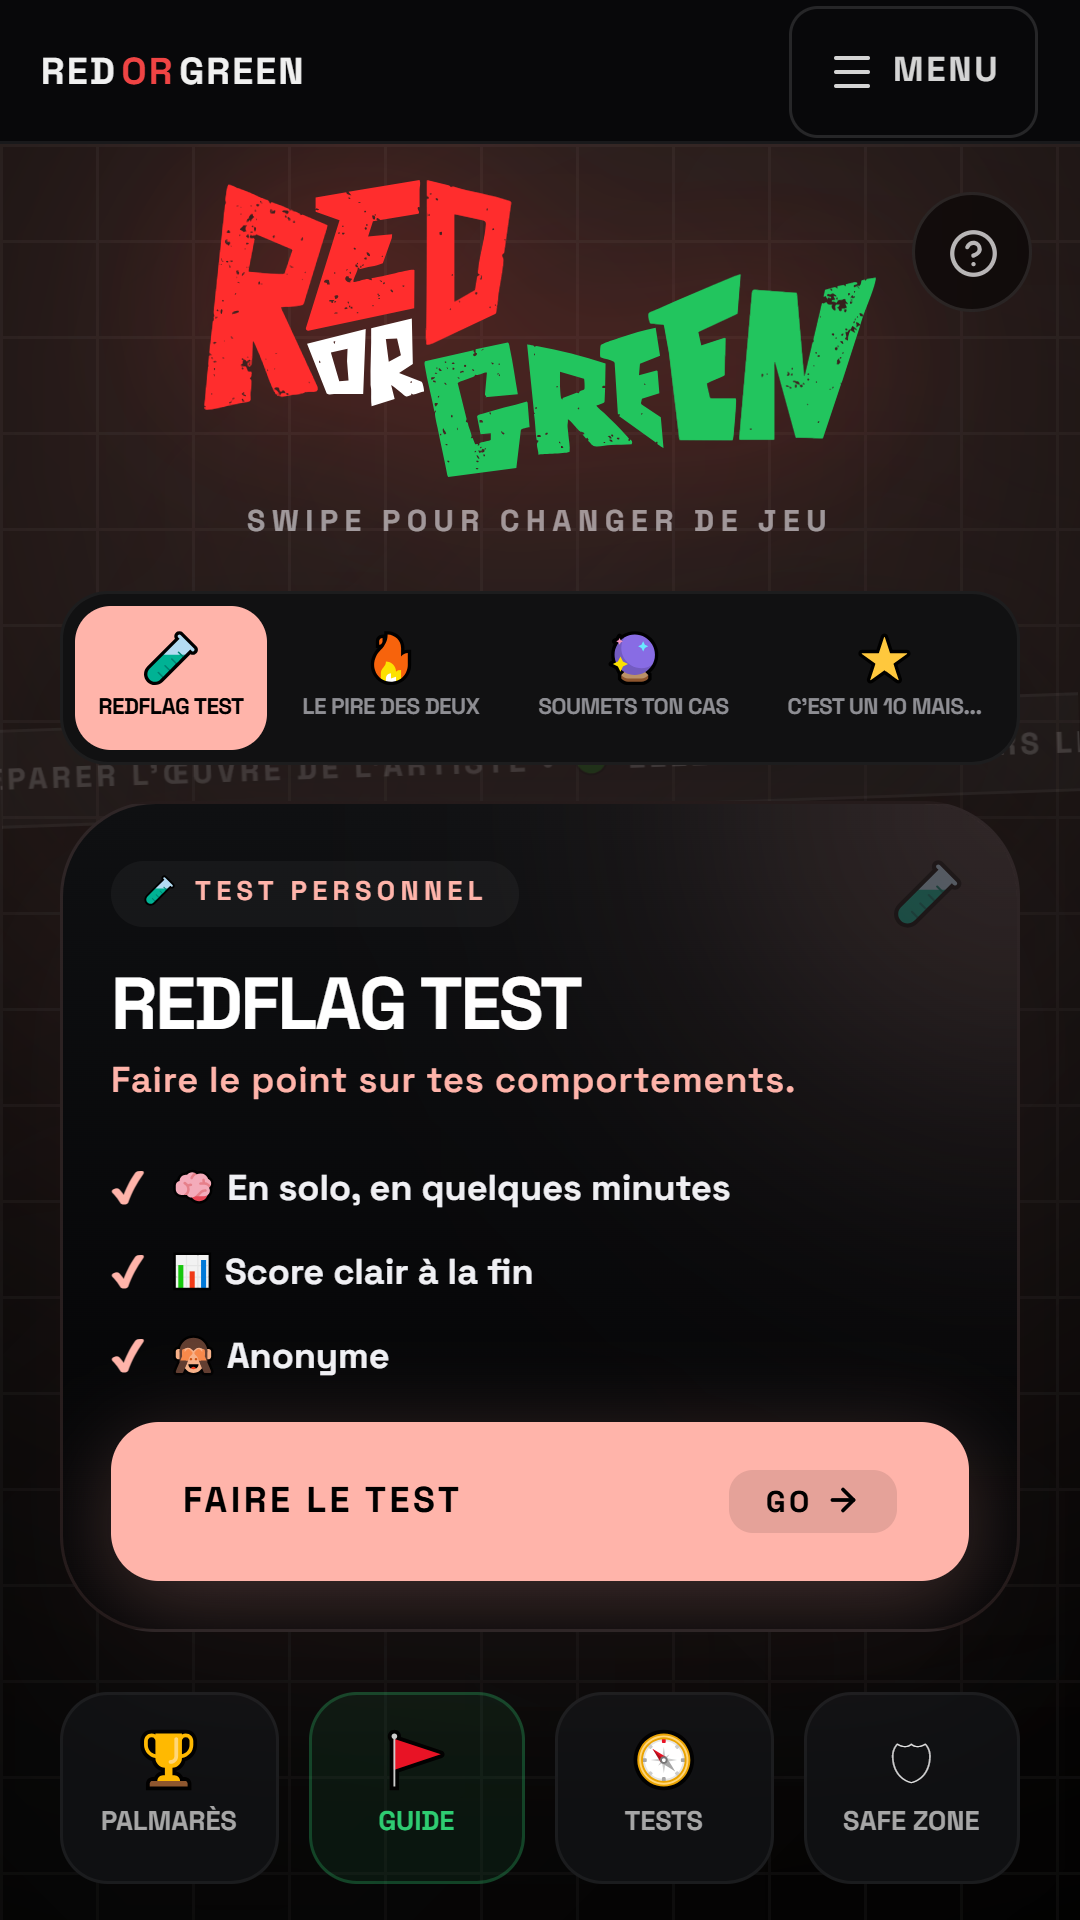
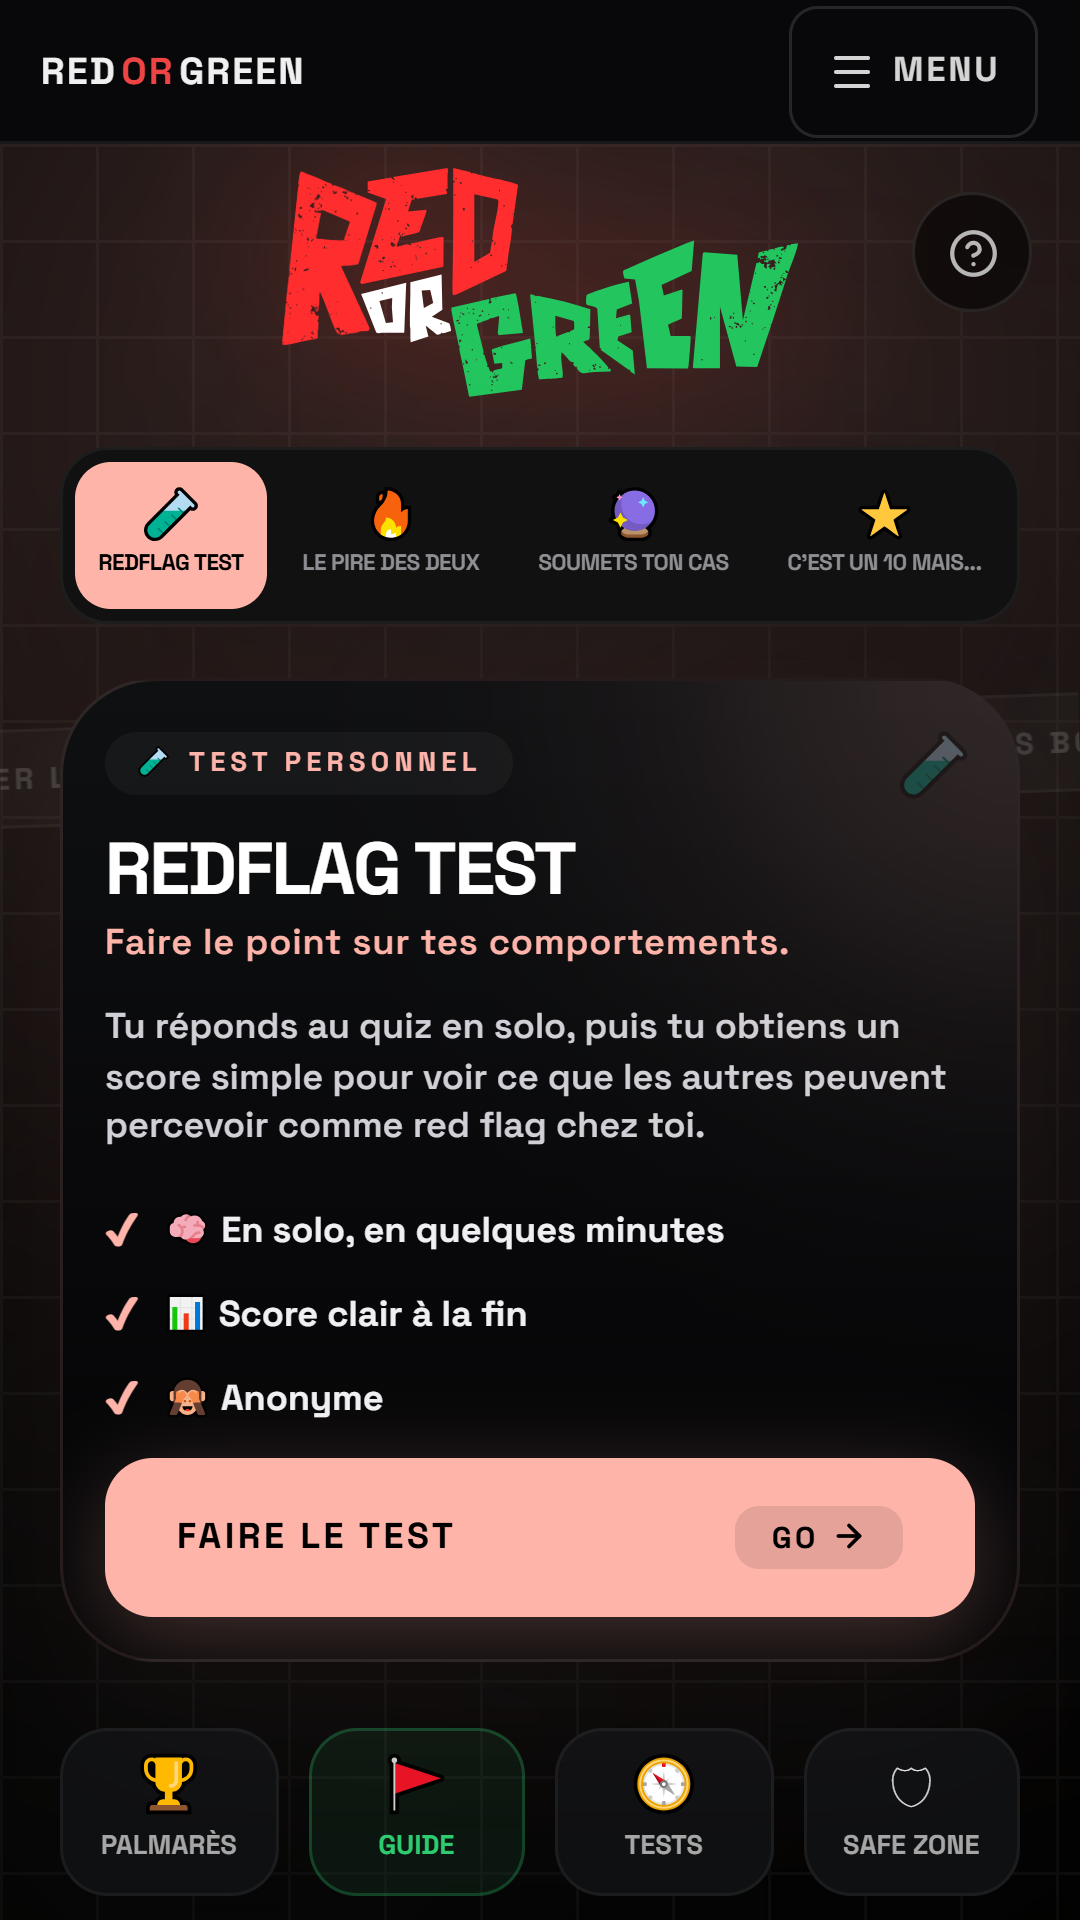
Accueil : rendre le descriptif des jeux visible sur tous les telephones
Le descriptif etait masque sous 721 px de haut : c'etait le compromis
retenu pour degager le bouton de lancement, mais il retirait justement ce
que la personne vient lire. La place est reprise ailleurs.

La consigne « Swipe pour changer de jeu » disparait : la rangee d'onglets
juste dessous montre les quatre jeux et s'utilise au doigt, si bien que
cette ligne coutait une vingtaine de pixels pour redire ce que
l'interface montre deja. Le geste de balayage continue de fonctionner.

Deux paliers de resserrement s'ajoutent, qui ne touchent que le decor —
logo, marges, interieur de la carte, rangee de raccourcis. Sous 600 px de
haut, c'est l'accroche qui cede la place : elle resume en une phrase ce
que le titre annonce, la ou le descriptif dit ce qu'on fait.

Verifie sur les quatre jeux et sept formats : de 360x640 a 430x932, plus
le bureau, rien n'est rogne et le bouton comme la rangee de raccourcis
restent au-dessus de la ligne de flottaison. Sur un iPhone SE de 2016
(320x568) la troisieme puce demande encore un petit defilement dans la
carte, le bouton restant visible.

diff --git a/game/src/app/HubClient.tsx b/game/src/app/HubClient.tsx
@@ -217,11 +217,16 @@ export function HubClient() {
           par ajustement de valeurs. */}
       <main
         id="main-content"
-        className="relative z-10 mx-auto flex h-[calc(100dvh-var(--header-h,3rem))] w-full max-w-110 flex-col items-center justify-between px-5 py-6 [@media(max-height:1000px)]:py-3"
+        className="relative z-10 mx-auto flex h-[calc(100dvh-var(--header-h,3rem))] w-full max-w-110 flex-col items-center justify-between px-5 py-6 [@media(max-height:1000px)]:py-3 [@media(max-height:700px)]:py-2"
       >
         
-        {/* 1. Header (Minimalist & Branding Focus) */}
-        <header className="w-full space-y-4 [@media(max-height:1000px)]:space-y-1.5 flex flex-col items-center pt-2 [@media(max-height:1000px)]:pt-0">
+        {/* 1. Header (Minimalist & Branding Focus)
+            La ligne « Swipe pour changer de jeu » a été retirée : la rangée
+            d'onglets juste dessous montre déjà les quatre jeux et s'utilise au
+            doigt, si bien que cette consigne coûtait une vingtaine de pixels
+            pour redire ce que l'interface montre. Le geste de balayage
+            fonctionne toujours. Ces pixels vont au descriptif des jeux. */}
+        <header className="w-full flex flex-col items-center pt-2 [@media(max-height:1000px)]:pt-0">
           {/* Centered Brand Logo - enlarged and dominant.
               Porté par le h1 : la page n'avait aucun titre de niveau 1, le
               logo n'étant qu'une image. Le nom accessible du titre vient de
@@ -238,13 +243,9 @@ export function HubClient() {
               height={86}
               priority
               draggable={false}
-              className="h-auto w-[88vw] [@media(max-height:1000px)]:w-[62vw] max-w-115 object-contain drop-shadow-[0_0_28px_rgba(255,59,48,0.3)]"
+              className="h-auto w-[88vw] [@media(max-height:1000px)]:w-[62vw] [@media(max-height:700px)]:w-[48vw] [@media(max-height:600px)]:w-[40vw] max-w-115 object-contain drop-shadow-[0_0_28px_rgba(255,59,48,0.3)]"
             />
           </h1>
-
-          <p className="text-[10px] font-black tracking-[0.22em] uppercase text-[#CFCFD4]/70">
-            Swipe pour changer de jeu
-          </p>
         </header>
 
         {/* Floating help button moved out of header for cleaner logo stage */}
@@ -303,7 +304,7 @@ export function HubClient() {
             et le hub débordait de la fenêtre — 762 px réclamés pour 592 sur un
             360×640, très répandu. Le bouton de lancement tombait alors pile sur
             la ligne de flottaison, à moitié sous la barre de navigation. */}
-        <div className="w-full my-6 [@media(max-height:1000px)]:my-3 flex-1 min-h-0 flex flex-col justify-center">
+        <div className="w-full my-6 [@media(max-height:1000px)]:my-3 [@media(max-height:700px)]:my-1.5 flex-1 min-h-0 flex flex-col justify-center">
           {/* `initial={false}` : la carte est l'élément LCP de la page. Sans
               cela elle est rendue à opacity 0 et n'apparaît qu'après
               l'hydratation, ce qui repousse le LCP de plusieurs secondes sur
@@ -316,7 +317,7 @@ export function HubClient() {
               exit={{ opacity: 0, scale: 0.95, y: -15 }}
               transition={{ duration: 0.25, ease: 'easeOut' }}
               whileHover={{ y: -4 }}
-              className="relative w-full min-h-0 max-h-full rounded-4xl border bg-linear-to-b from-[#0F1012] to-[#040405] p-6.5 [@media(max-height:1000px)]:p-4 shadow-[0_30px_60px_-15px_rgba(0,0,0,0.85)] flex flex-col justify-between overflow-hidden"
+              className="relative w-full min-h-0 max-h-full rounded-4xl border bg-linear-to-b from-[#0F1012] to-[#040405] p-6.5 [@media(max-height:1000px)]:p-4 [@media(max-height:700px)]:p-3.5 shadow-[0_30px_60px_-15px_rgba(0,0,0,0.85)] flex flex-col justify-between overflow-hidden"
               style={{
                 borderColor: `${activeCard.themeColor}22`,
                 boxShadow: `0 25px 50px -12px ${activeCard.themeColor}0C`
@@ -339,7 +340,7 @@ export function HubClient() {
                   réduirait alors au seul bouton. `min-h-0` seul suffit — le
                   bloc prend sa hauteur naturelle, et ne se comprime que
                   lorsque le `max-h-full` de la carte l'y oblige. */}
-              <div className="min-h-0 overflow-y-auto overscroll-contain scrollbar-hide space-y-4 [@media(max-height:1000px)]:space-y-2.5">
+              <div className="min-h-0 overflow-y-auto overscroll-contain scrollbar-hide space-y-4 [@media(max-height:1000px)]:space-y-2.5 [@media(max-height:700px)]:space-y-2">
                 {/* Mode Tag */}
                 <div className="flex items-center justify-between">
                   <span 
@@ -367,23 +368,25 @@ export function HubClient() {
                   >
                     {activeCard.title}
                   </h2>
-                  <p className="text-xs font-semibold tracking-wide" style={{ color: activeCard.themeColor }}>
+                  <p className="text-xs font-semibold tracking-wide [@media(max-height:600px)]:hidden" style={{ color: activeCard.themeColor }}>
                     {activeCard.tagline}
                   </p>
                 </div>
 
-                {/* Le descriptif redit en prose ce que disent les trois points
-                    ci-dessous. Sur écran court, où chaque ligne se dispute la
-                    place avec le bouton, ce sont les points qui restent : ils
-                    se lisent d'un coup d'œil. */}
-                <p className="hidden text-[13px] leading-relaxed text-[#D0D0D6] font-semibold pt-1 [@media(min-height:721px)]:block">
+                {/* Le descriptif est visible partout. Il avait été masqué sur
+                    écran court pour dégager le bouton ; la place a été reprise
+                    ailleurs — ligne de consigne supprimée, logo et onglets
+                    resserrés — plutôt qu'en retirant ce que la personne est
+                    venue lire. Taille et interlignage se resserrent d'un cran
+                    sur les écrans les plus courts. */}
+                <p className="text-[13px] [@media(max-height:700px)]:text-[12px] leading-relaxed [@media(max-height:700px)]:leading-snug text-[#D0D0D6] font-semibold pt-1">
                   {activeCard.desc}
                 </p>
 
                 {/* Specs / Bullet points */}
-                <ul className="space-y-2 pt-2">
+                <ul className="space-y-2 [@media(max-height:600px)]:space-y-1 pt-2 [@media(max-height:600px)]:pt-1">
                   {activeCard.bullets.map((bullet, idx) => (
-                    <li key={idx} className="flex items-center gap-2 text-[12px] font-black text-[#F0F0F4]">
+                    <li key={idx} className="flex items-center gap-2 text-[12px] [@media(max-height:600px)]:text-[11px] font-black text-[#F0F0F4]">
                       <span className="text-sm select-none" style={{ color: activeCard.themeColor }}>✔</span>
                       <span>{bullet}</span>
                     </li>
@@ -392,7 +395,7 @@ export function HubClient() {
               </div>
 
               {/* Massive Tactile Pulse Action Button */}
-              <div className="shrink-0 pt-6 [@media(max-height:1000px)]:pt-3">
+              <div className="shrink-0 pt-6 [@media(max-height:1000px)]:pt-3 [@media(max-height:700px)]:pt-2.5">
                 {activeCard.external ? (
                   <a
                     href={activeCard.href}
@@ -438,7 +441,7 @@ export function HubClient() {
             la grille 2×2 coûtait 144 px sous la carte, soit l'essentiel du
             débordement sur un 360×640. Les quatre entrées restent visibles
             dans les deux cas — seule leur disposition change. */}
-        <section className="w-full shrink-0 grid grid-cols-4 [@media(min-height:1001px)]:grid-cols-2 gap-2.5 mt-2">
+        <section className="w-full shrink-0 grid grid-cols-4 [@media(min-height:1001px)]:grid-cols-2 gap-2.5 mt-2 [@media(max-height:700px)]:mt-1">
           {SHORTCUTS.map((shortcut) => {
             const content = (
               <>
@@ -457,7 +460,7 @@ export function HubClient() {
               </>
             );
 
-            const className = `flex min-h-16 flex-col items-center justify-center rounded-2xl border px-1.5 py-3 text-center group transition-transform active:scale-95 ${shortcut.surface}`;
+            const className = `flex min-h-16 [@media(max-height:700px)]:min-h-14 flex-col items-center justify-center rounded-2xl border px-1.5 py-3 [@media(max-height:700px)]:py-2 text-center group transition-transform active:scale-95 ${shortcut.surface}`;
 
             return shortcut.href ? (
               <Link key={shortcut.short} href={shortcut.href} onClick={handleTap} className={className}>
